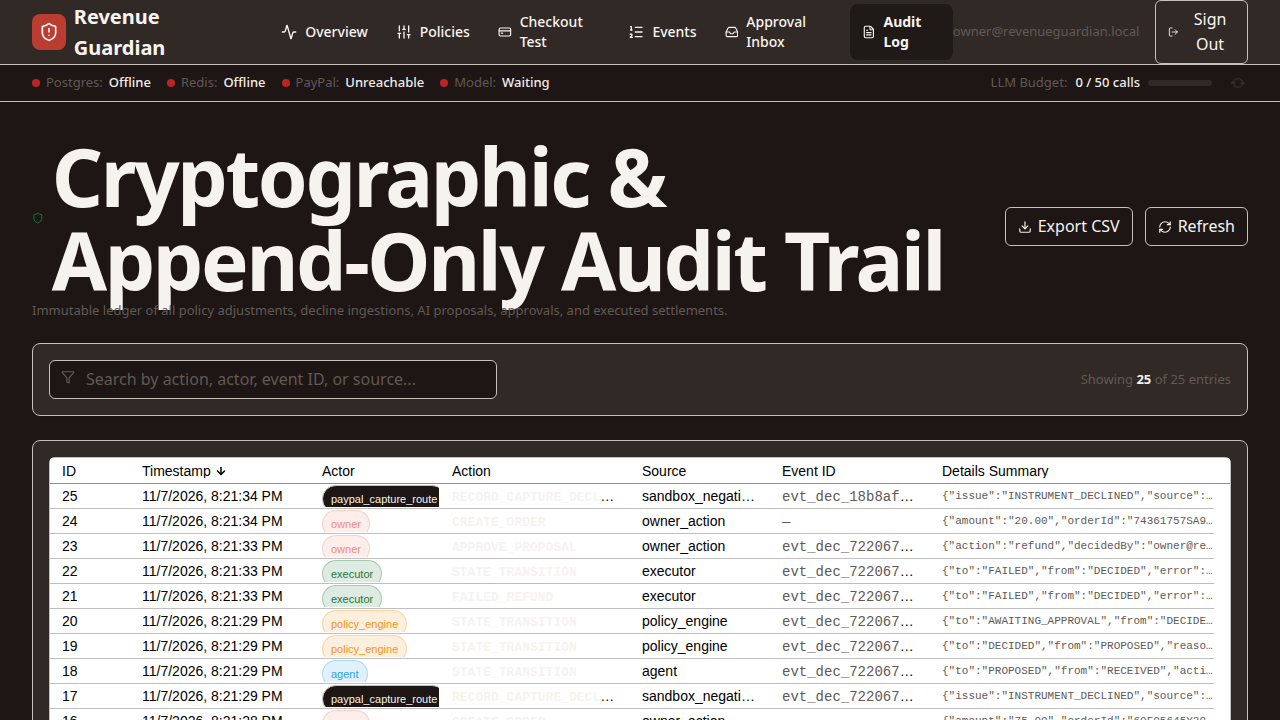
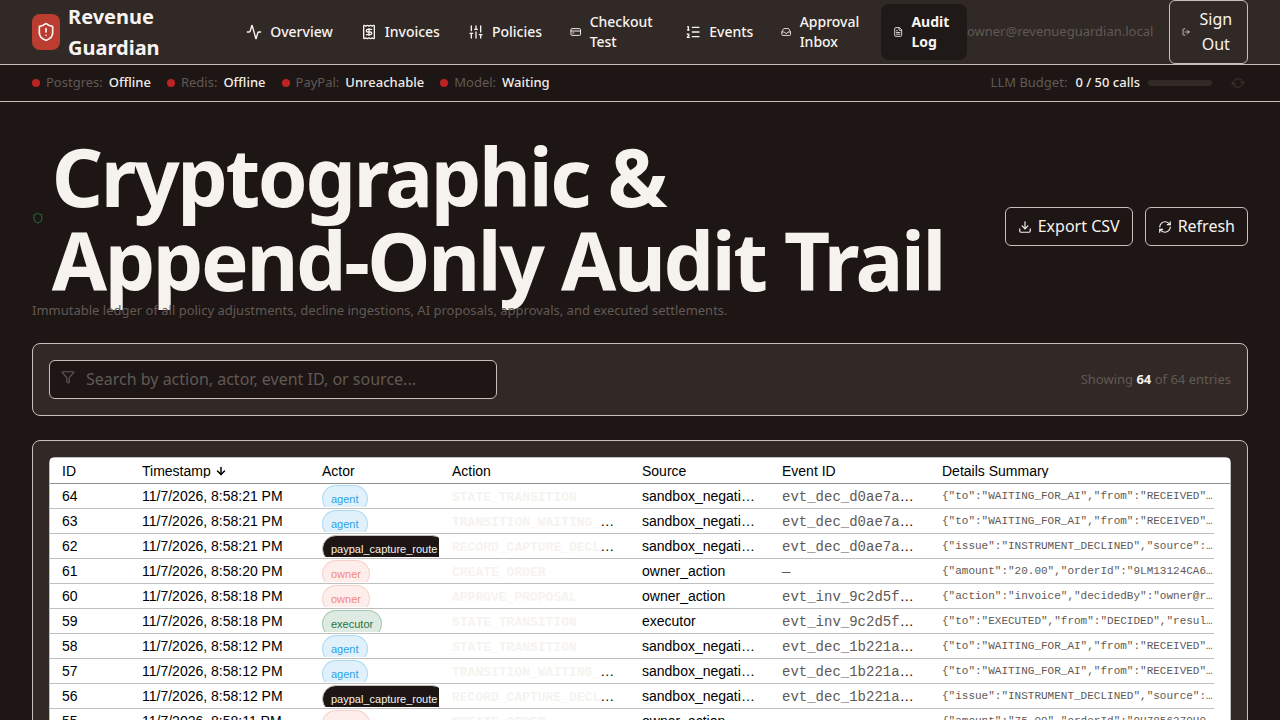
test(e2e): playwright suite for m3-lite invoice lifecycle on isolated stack

diff --git a/tests/e2e/m3-invoices.spec.ts b/tests/e2e/m3-invoices.spec.ts
@@ -1,0 +1,110 @@
+import { test, expect } from "@playwright/test";
+import { env } from "@/config/env";
+
+test.describe("M3-Lite End-to-End Suite: Invoices Lifecycle with AI Extraction & Guardrail Policies", () => {
+  test("Complete M3-Lite flow: policy calibration -> AI extraction -> AUTO send -> over-limit approval inbox -> audit log", async ({
+    page,
+  }) => {
+    // 1. Sign In as Store Owner
+    await page.goto("/login");
+    await page.fill('input[type="email"]', env.OWNER_EMAIL);
+    await page.fill('input[type="password"]', env.OWNER_PASSWORD);
+    await page.click('button[type="submit"]');
+
+    // Wait for redirect to dashboard
+    await expect(page).toHaveURL(/.*dashboard/);
+    await expect(page.locator("h1")).toContainText("Autonomous Back-Office Recovery");
+
+    // 2. Configure Invoicing Policies in /policies
+    await page.goto("/policies");
+    await expect(page.locator("h1")).toContainText("Guardrails & Policies Editor");
+
+    // Fill in auto-send invoice limit and due days
+    const invoiceLimitInput = page.locator('input[type="number"][step="1"]');
+    if (await invoiceLimitInput.isVisible()) {
+      await invoiceLimitInput.fill("500");
+    }
+
+    await page.fill('input[placeholder*="holiday rush"]', "Calibrate invoice threshold to 500 USD");
+    await page.click('button:has-text("Save Guardrail Policy")');
+    await expect(page.locator("text=Policy successfully updated")).toBeVisible({ timeout: 10000 });
+    await page.screenshot({ path: "docs/screenshots/02-policies.png" });
+
+    // 3. Navigate to Invoices Screen
+    await page.goto("/invoices");
+    await expect(page.locator("h1")).toContainText("PayPal Invoicing Grid (M3-Lite)");
+    await page.screenshot({ path: "docs/screenshots/09-invoices.png" });
+
+    // 4. Test Natural Language Invoice Creation - AUTO Path (< $500)
+    await page.click('button:has-text("New Invoice with AI")');
+    await expect(page.locator("text=Issue Invoice with AI Extraction")).toBeVisible();
+
+    // Type natural language prompt
+    const promptInput = page.locator("textarea");
+    await promptInput.fill("invoice Acme Corp $400 for website revamp, due in 15 days");
+
+    // Trigger AI extraction
+    await page.click('button:has-text("Extract with AI")');
+
+    // Verify fields populated
+    await expect(page.locator('input[value="Acme Corp"]')).toBeVisible({ timeout: 10000 });
+    await expect(page.locator('input[value="400"]')).toBeVisible();
+
+    // Verify policy decision preview is AUTO
+    await expect(page.locator("text=AUTO (Direct send via Executor)")).toBeVisible();
+
+    // Submit invoice
+    await page.click('button:has-text("Create & Dispatch Invoice")');
+
+    // Verify success banner and modal closed
+    await expect(
+      page.locator("text=automatically created and dispatched via Executor")
+    ).toBeVisible({ timeout: 15000 });
+
+    // Verify the invoice row appears in the AG Grid
+    const invoiceRow = page.locator(".ag-row:has-text('Acme Corp')").first();
+    await expect(invoiceRow).toBeVisible({ timeout: 10000 });
+
+    // Click the row to open side detail panel
+    await invoiceRow.click();
+    await expect(page.locator("text=Invoice Audit Detail")).toBeVisible();
+    await expect(page.locator("text=Customer-facing message (draft only)")).toBeVisible();
+
+    // 5. Test Natural Language Invoice Creation - Over-Limit Approval Path (> $500)
+    await page.click('button:has-text("New Invoice with AI")');
+    await expect(page.locator("text=Issue Invoice with AI Extraction")).toBeVisible();
+
+    await promptInput.fill("invoice Acme Corp $750 for custom software, due in 15 days");
+    await page.click('button:has-text("Extract with AI")');
+
+    await expect(page.locator('input[value="750"]')).toBeVisible({ timeout: 10000 });
+    await expect(page.locator("text=NEEDS_APPROVAL (> $500 threshold)")).toBeVisible();
+
+    await page.click('button:has-text("Create & Dispatch Invoice")');
+
+    // Verify banner indicates approval request created
+    await expect(
+      page.locator("text=Approval request dispatched to Approvals Inbox")
+    ).toBeVisible({ timeout: 15000 });
+
+    // 6. Navigate to Approvals Inbox and verify the invoice approval item
+    await page.goto("/approvals");
+    await expect(page.locator("h1")).toContainText("Owner Approval Inbox");
+
+    const approvalCard = page.locator('div.rounded-card:has(strong:has-text("AMOUNT_EXCEEDS_AUTO_INVOICE_LIMIT"))').first();
+    await expect(approvalCard).toBeVisible({ timeout: 15000 });
+    const approveBtn = approvalCard.locator('button:has-text("Approve & Execute via Executor")');
+    await expect(approveBtn).toBeVisible();
+
+    // Approve the invoice in Inbox
+    page.on("dialog", (dialog) => dialog.accept());
+    await approveBtn.click();
+
+    // Confirm execution succeeded
+    await expect(page.locator("text=approved and executed successfully")).toBeVisible({ timeout: 15000 });
+
+    // 7. Verify Invoices Grid reflects approved and sent invoice
+    await page.goto("/invoices");
+    await expect(page.locator(".ag-row:has-text('Acme Corp')").first()).toBeVisible({ timeout: 10000 });
+  });
+});

diff --git a/tests/invoice-idempotency.test.ts b/tests/invoice-idempotency.test.ts
@@ -1,0 +1,123 @@
+import { describe, it, expect, vi, beforeEach } from "vitest";
+import { ActionExecutor } from "@/executor";
+import { db } from "@/db";
+import { events, proposals, actions } from "@/db/schema";
+import { paypalClient } from "@/paypal/client";
+import crypto from "crypto";
+
+describe("M3-Lite Invoice Execution & Idempotency", () => {
+  const executor = new ActionExecutor();
+
+  beforeEach(() => {
+    vi.restoreAllMocks();
+  });
+
+  it("executes invoice creation and send idempotently via PayPal-Request-Id", async () => {
+    const testId = crypto.randomUUID().slice(0, 8);
+    const eventId = `evt_inv_test_${testId}`;
+    const proposalId = `prop_inv_test_${testId}`;
+
+    await db.insert(events).values({
+      id: eventId,
+      type: "invoice.request",
+      source: "owner_invoice_creation",
+      status: "POLICY_EVALUATED",
+      payload: { amount: 150.0, customerName: "Test Co" },
+    });
+
+    await db.insert(proposals).values({
+      id: proposalId,
+      eventId,
+      action: "invoice",
+      amount: "150.00",
+      currency: "USD",
+      message: "Consulting services",
+      confidence: "0.95",
+      reasoning: "Valid natural language extraction",
+      modelUsed: "mock-model",
+      attempts: 1,
+    });
+
+    let draftCallCount = 0;
+    let sendCallCount = 0;
+    let capturedDraftRequestId = "";
+    let capturedSendRequestId = "";
+
+    vi.spyOn(paypalClient, "createDraftInvoice").mockImplementation(async (params) => {
+      draftCallCount++;
+      capturedDraftRequestId = params.requestId;
+      return {
+        id: `INV2-TEST-${testId}`,
+        invoiceNumber: `INV-${testId}`,
+        status: "DRAFT",
+        raw: {
+          id: `INV2-TEST-${testId}`,
+          detail: { invoice_number: `INV-${testId}` },
+          amount: { value: "150.00", currency_code: "USD" },
+        },
+      };
+    });
+
+    vi.spyOn(paypalClient, "sendInvoice").mockImplementation(async (invId, reqId) => {
+      sendCallCount++;
+      capturedSendRequestId = reqId || "";
+      return {
+        id: invId,
+        status: "SENT",
+        raw: { id: invId, status: "SENT" },
+      };
+    });
+
+    const idempotencyKey = `req_inv_${testId}`;
+
+    // First execution
+    const res1 = await executor.execute({
+      eventId,
+      proposalId,
+      idempotencyKey,
+      policyDecision: "AUTO",
+      targetId: "new_invoice",
+      proposal: {
+        action: "invoice",
+        amount: 150.0,
+        currency: "USD",
+        message: "Consulting services",
+        confidence: 0.95,
+        reasoning: "Valid extraction",
+        customerName: "Test Co",
+        customerEmail: "finance@testco.com",
+      } as any,
+    });
+
+    expect(res1.success).toBe(true);
+    expect(res1.status).toBe("SUCCESS");
+    expect(draftCallCount).toBe(1);
+    expect(sendCallCount).toBe(1);
+    expect(capturedDraftRequestId).toBe(idempotencyKey);
+    expect(capturedSendRequestId).toBe(`send_${idempotencyKey}`);
+
+    // Replay with the same proposal and idempotency key
+    const res2 = await executor.execute({
+      eventId,
+      proposalId,
+      idempotencyKey,
+      policyDecision: "AUTO",
+      targetId: "new_invoice",
+      proposal: {
+        action: "invoice",
+        amount: 150.0,
+        currency: "USD",
+        message: "Consulting services",
+        confidence: 0.95,
+        reasoning: "Valid extraction",
+        customerName: "Test Co",
+        customerEmail: "finance@testco.com",
+      } as any,
+    });
+
+    // Idempotent: returns cached result without invoking PayPal again
+    expect(res2.success).toBe(true);
+    expect(draftCallCount).toBe(1);
+    expect(sendCallCount).toBe(1);
+  });
+});

diff --git a/tests/fake-llm-server.ts b/tests/fake-llm-server.ts
@@ -51,7 +51,28 @@ export function createFakeLlmServer(config: FakeLlmServerConfig = {}) {
 
         let proposalContent: Record<string, unknown>;
 
-        if (currentMode === "over_limit_refund") {
+        if (body.includes("Extract invoice details from") || body.includes("INVOICE_EXTRACTOR")) {
+          let amount = 400.0;
+          if (body.includes("750") || body.includes("800") || body.includes("over_limit")) {
+            amount = 750.0;
+          }
+          let customerEmail: string | null = "client@example.com";
+          if (body.includes("without email") || body.includes("missing email")) {
+            customerEmail = null;
+          }
+
+          proposalContent = {
+            customerName: "Acme Corp",
+            customerEmail,
+            amount,
+            currency: "USD",
+            dueDays: 15,
+            note: "Logo design and branding",
+            lineItems: [{ description: "Logo design and branding", quantity: 1, unitPrice: amount }],
+            confidence: 0.95,
+            reasoning: "Extracted invoice details from customer request without external assumptions.",
+          };
+        } else if (currentMode === "over_limit_refund") {
           proposalContent = {
             action: "refund",
             amount: 75.0,

diff --git a/src/app/api/approvals/[token]/decide/route.ts b/src/app/api/approvals/[token]/decide/route.ts
@@ -98,11 +98,16 @@ export async function POST(
         message: prop.message,
         confidence: parseFloat(prop.confidence),
         reasoning: prop.reasoning,
-      },
+        customerName: (prop.contextSnapshot as Record<string, unknown>)?.customerName as string,
+        customerEmail: (prop.contextSnapshot as Record<string, unknown>)?.customerEmail as string,
+        dueDays: (prop.contextSnapshot as Record<string, unknown>)?.dueDays as number,
+        lineItems: (prop.contextSnapshot as Record<string, unknown>)?.lineItems as any,
+        metadata: prop.contextSnapshot as Record<string, unknown>,
+      } as any,
       policyDecision: "NEEDS_APPROVAL",
       approvalToken: token,
       approvedBy: ownerEmail,
-      targetId: ev.externalId || "unknown",
+      targetId: ev.externalId || "new_invoice",
     });
 
     await appendAuditLog({

diff --git a/tests/agent.test.ts b/tests/agent.test.ts
@@ -169,7 +169,7 @@ describe("Agent Module & Prompt Defenses (Deliverable 5)", () => {
 
     expect(result.status).toBe("WAITING_FOR_AI");
     expect(result.proposal).toBeNull();
-  });
+  }, 40000);
 
   it("7. Response Caching: returns cached proposal by event ID without calling model again", async () => {
     let calls = 0;
